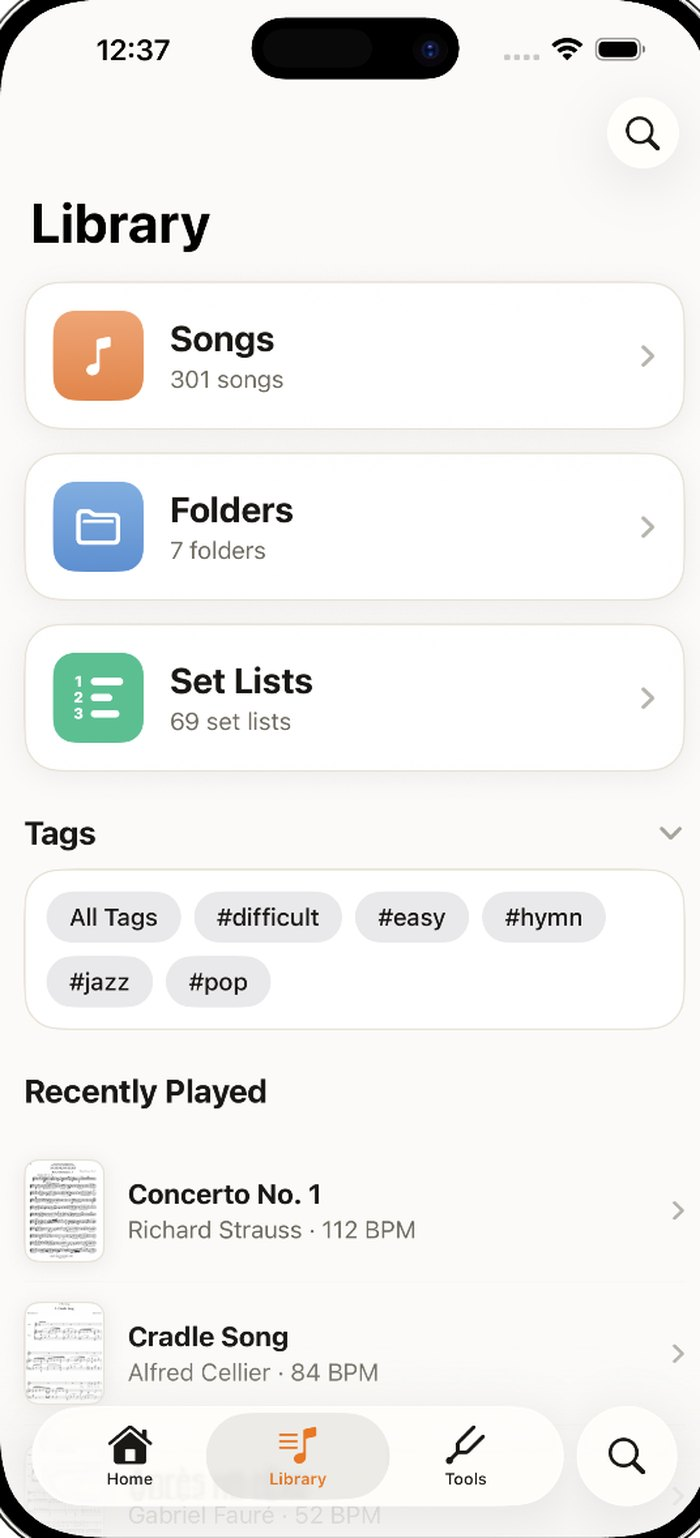
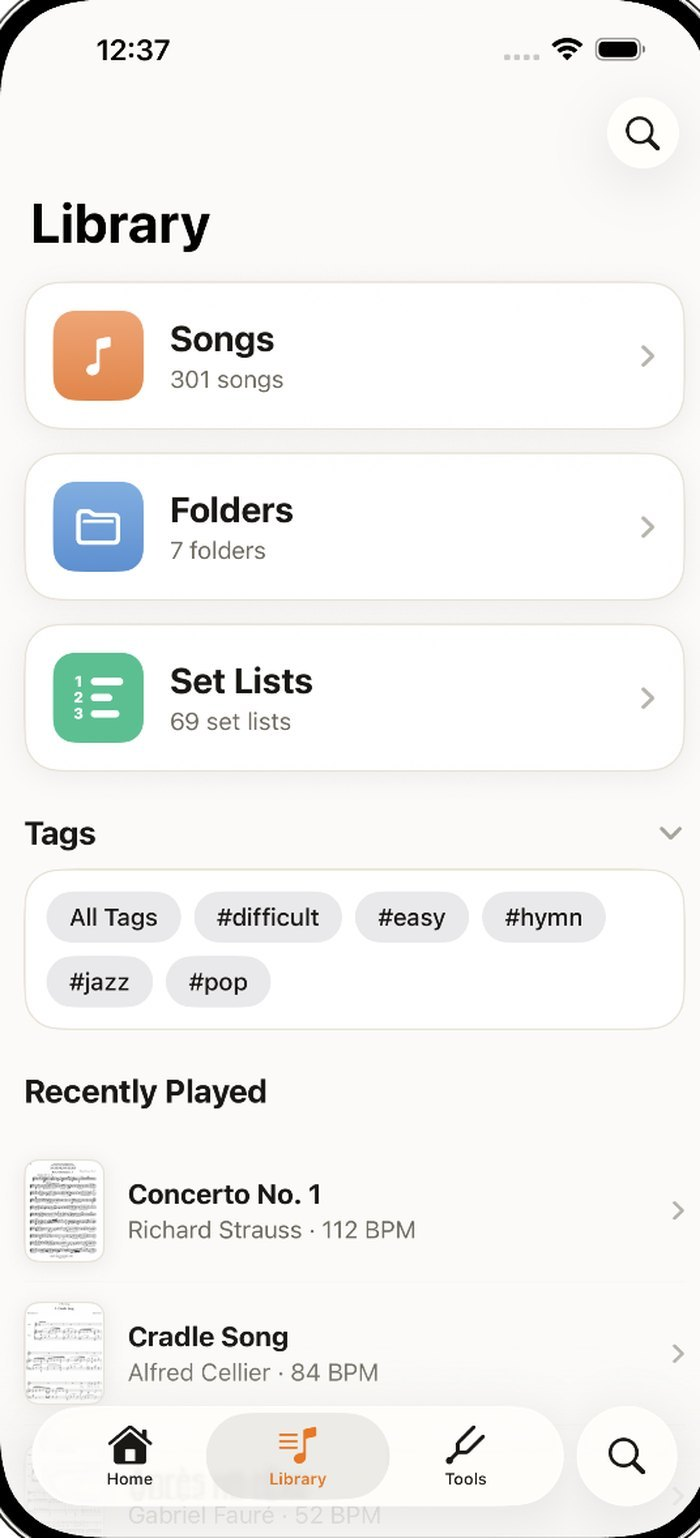
Dynamic Island on phone frames

Changed region(s): [[0.36, 0.0, 0.66, 0.0624]]

diff --git a/index.html b/index.html
@@ -40,7 +40,7 @@
 }
 </script>
 
-<link rel="stylesheet" href="assets/site.css?v=2">
+<link rel="stylesheet" href="assets/site.css?v=3">
 </head>
 <body>
 
@@ -150,7 +150,7 @@
         <article class="step is-active" data-step="0">
           <h3>Your whole library, in one place.</h3>
           <p>Import PDFs from Files, AirDrop or email, sort them into folders and tags, and scan paper charts.</p>
-          <div class="step-visual"><div class="device phone"><div class="screen shot"><img src="assets/library-screen.jpg?v=1" alt="The Music Folder Library screen on iPhone: Songs, Folders and Set Lists, tags, and recently played scores" width="700" height="1538" loading="lazy"></div></div></div>
+          <div class="step-visual"><div class="device phone"><div class="screen shot"><img src="assets/library-screen.jpg?v=2" alt="The Music Folder Library screen on iPhone: Songs, Folders and Set Lists, tags, and recently played scores" width="700" height="1538" loading="lazy"></div></div></div>
         </article>
         <article class="step" data-step="1">
           <h3>Your set, in order.</h3>
@@ -183,7 +183,7 @@
       </div>
       <div class="story-stage" aria-hidden="true">
         <div class="stage-inner">
-          <div class="frame is-active" data-step="0"><div class="device phone"><div class="screen shot"><img src="assets/library-screen.jpg?v=1" alt="" width="700" height="1538" loading="lazy"></div></div></div>
+          <div class="frame is-active" data-step="0"><div class="device phone"><div class="screen shot"><img src="assets/library-screen.jpg?v=2" alt="" width="700" height="1538" loading="lazy"></div></div></div>
           <div class="frame" data-step="1"><div class="device phone"><div class="screen shot"><img src="assets/setlist-iphone.jpg?v=1" alt="" width="700" height="1522" loading="lazy"></div></div></div>
           <div class="frame" data-step="2"><div class="device tablet"><div class="screen shot"><img src="assets/annotate-ipad.jpg?v=2" alt="" width="900" height="1305" loading="lazy"></div></div></div>
           <div class="frame" data-step="3"><div class="device phone"><div class="screen shot"><img src="assets/planning-center-iphone.jpg?v=1" alt="" width="700" height="1522" loading="lazy"></div></div></div>

diff --git a/assets/site.css b/assets/site.css
@@ -495,3 +495,10 @@ section { position: relative; }
 
 /* anchored sections land below the fixed header */
 [id] { scroll-margin-top: 84px; }
+
+/* iOS screenshots leave out the Dynamic Island, so the phone frames draw it */
+.device.phone .screen { position: relative; }
+.device.phone .screen::after {
+  content: ""; position: absolute; left: 50%; top: 1.2%; transform: translateX(-50%);
+  width: 29.5%; aspect-ratio: 3.4; border-radius: 999px; background: #000; pointer-events: none;
+}

diff --git a/support.html b/support.html
@@ -13,7 +13,7 @@
 <link rel="preconnect" href="https://fonts.googleapis.com">
 <link rel="preconnect" href="https://fonts.gstatic.com" crossorigin>
 <link href="https://fonts.googleapis.com/css2?family=Instrument+Serif:ital@0;1&family=Inter:wght@400;500;600&display=swap" rel="stylesheet">
-<link rel="stylesheet" href="assets/site.css?v=2">
+<link rel="stylesheet" href="assets/site.css?v=3">
 <style>
 /* ---------- Support page ---------- */
 .support-hero { padding: 160px 0 72px; }
